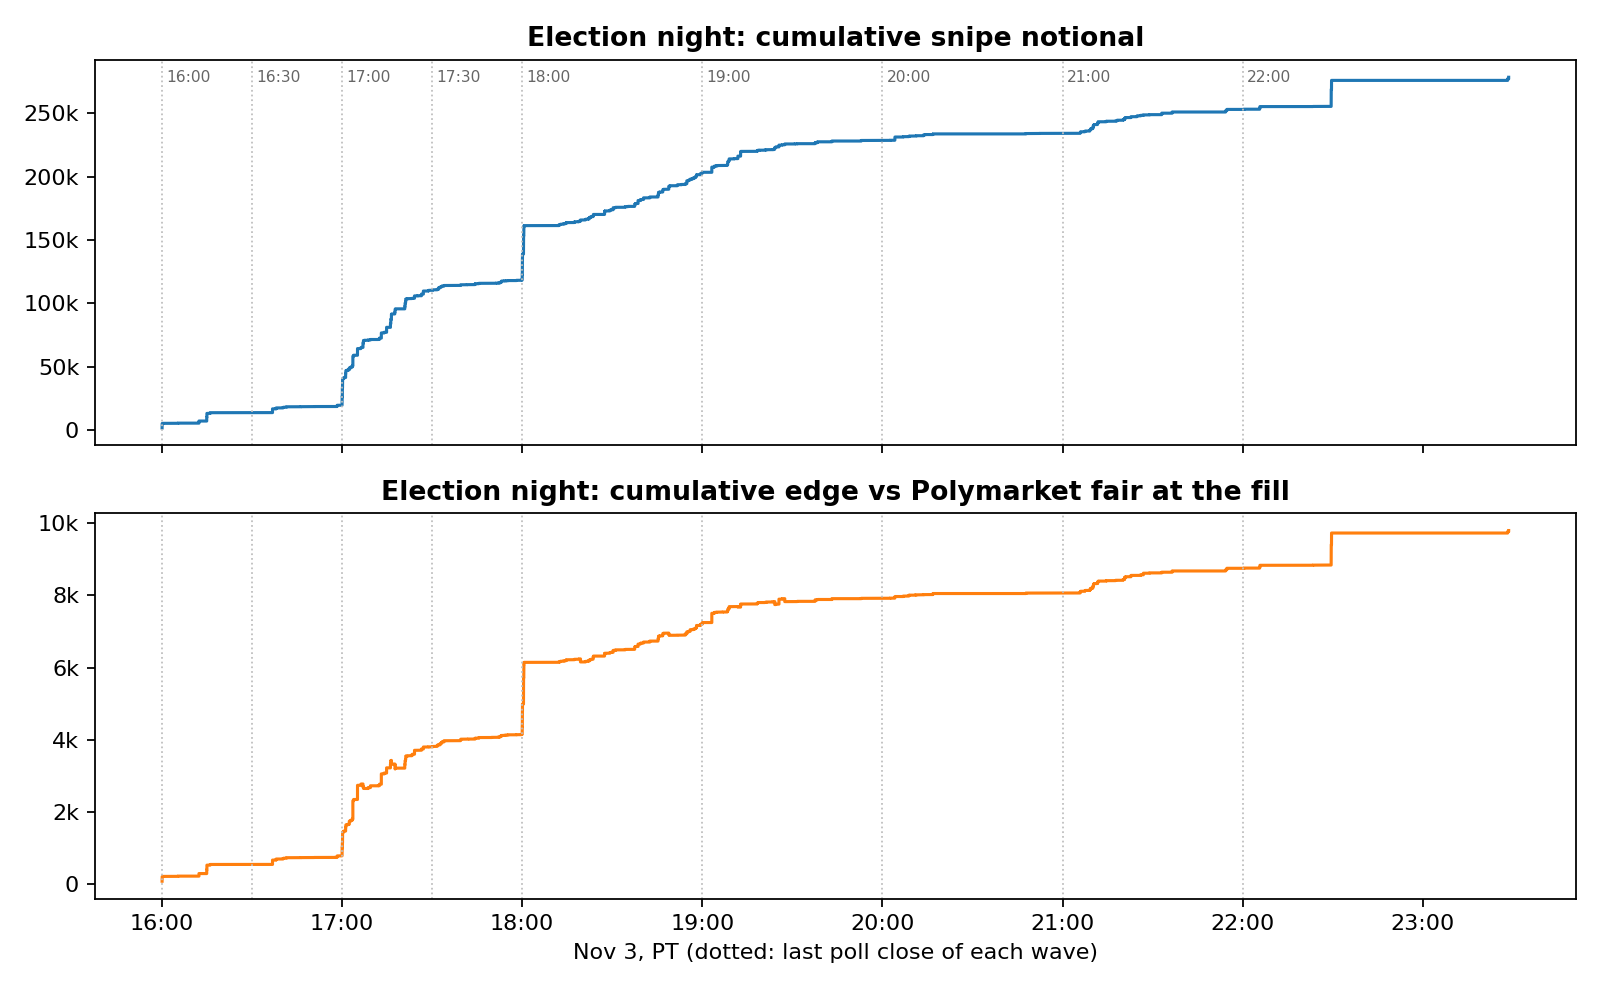
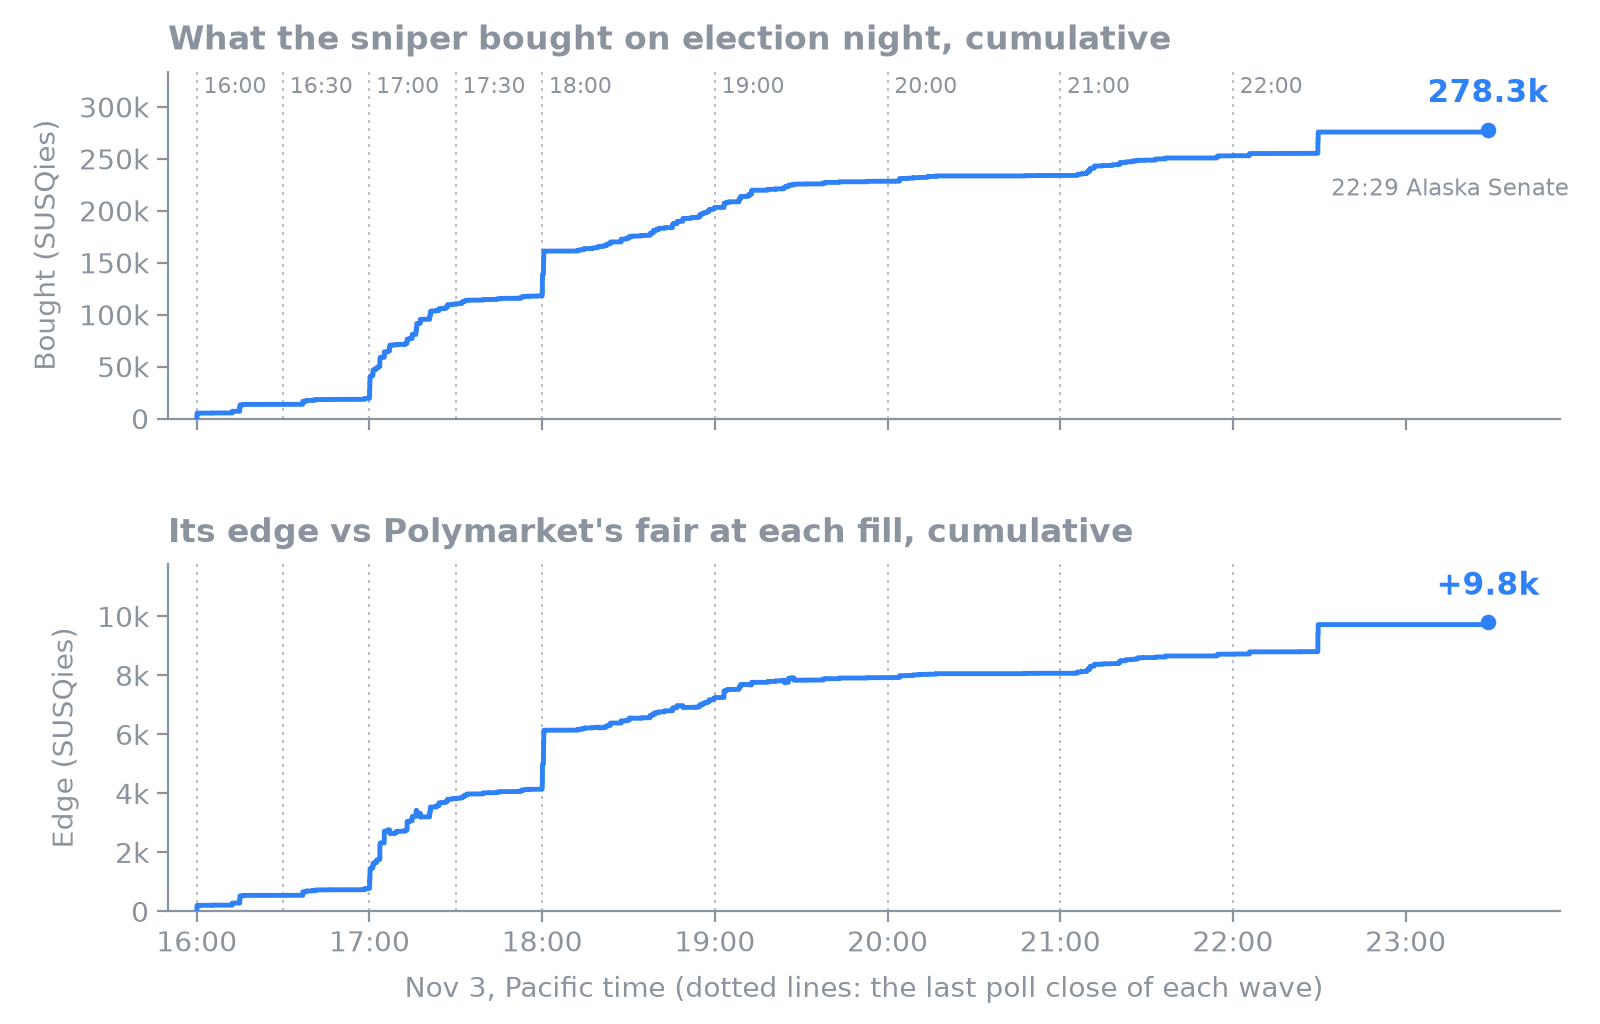
README: election-night chart with labelled axes; no trading-mix figure
Redraws img/election_night.png in the style of the other charts, with axis labels and units (SUSQies, Pacific time), from the same orders as data/night_snipes.csv. Removes img/strategy_mix.png and its figure from Strategies deployed; the six strategy sections are unchanged.

diff --git a/README.md b/README.md
@@ -269,8 +269,6 @@ Colours: blue for the data, teal for the engine core, purple for the strategies,
 
 I never forecast a race. Each layer was built for a behaviour I expected from 1,969 players trading play money: thin books, fat fingers and sweeps, players pushing prices to bait others, and a SIG book that lags Polymarket when a race is called. Every quote is anchored to Polymarket's fair value, never to SIG's book alone, so a pushed price can't drag the engine with it.
 
-<p align="center"><img src="img/strategy_mix.png" width="100%" alt="Who did the trading, Oct 8 to the Nov 4 close: FMM 76.9% of fills and 29.1% of volume; CATCH 2.2% of fills and 7.3% of volume; FLIP 2.8% of fills and 5.9% of volume; carry 0.0% of fills and 0.3% of volume; locks 0.1% of fills and 0.2% of volume; sniper 2.8% of fills and 11.3% of volume; other engine layers 9.5% of fills and 13.6% of volume; my own (discretionary) 5.6% of fills and 32.4% of volume"><br><sub>From Oct 8, when the engine started tagging every order with its layer; the card above counts the whole Cup.</sub></p>
-
 <details><summary>🟪 <b>01 · The Favourite Maker</b> · FMM · quotes favourites just under fair · 3,912 round trips</summary>
 
 - **Why:** favourites rarely flip, and a bid stays only while the touch is at least 2c under Polymarket's fair, re-checked every loop, which limits adverse selection.
@@ -332,7 +330,7 @@ I never forecast a race. Each layer was built for a behaviour I expected from 1,
 - **22:04** Alaska Senate (ranked choice) is called; at 22:29 the cash from a 20.5k sale is spent in 7 seconds.
 - **01:03** Election lane stopped; final sweep until 08:30.
 
-![Election night: cumulative snipe notional and edge vs Polymarket fair](img/election_night.png)
+![Election night, Nov 3 PT: what the sniper bought, cumulative, 278.3k SUSQies by 23:28; and its edge vs Polymarket's fair at each fill, cumulative, +9.8k SUSQies; dotted lines at each wave's last poll close](img/election_night.png)
 
 </details>
 
@@ -457,7 +455,7 @@ I never forecast a race. Each layer was built for a behaviour I expected from 1,
 │   ├── portfolio_final.csv  the positions at the close
 │   ├── rank.csv             my rank, hourly
 │   └── releases.csv         every release
-└── img/                     README images (10 files)
+└── img/                     README images (9 files)
 ```
 
 <details><summary><b>Working with Claude</b></summary>
